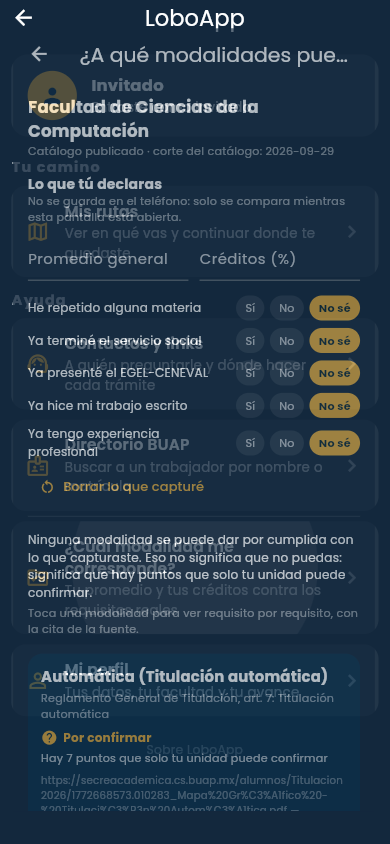
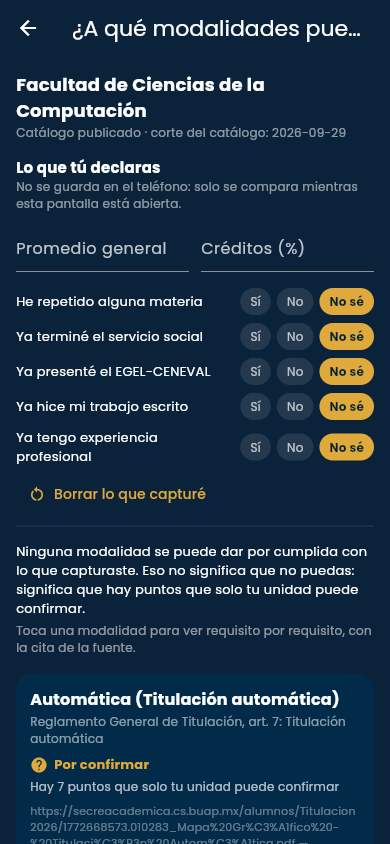
Actualiza las capturas a la app actual y alinea la portada con la 1.4.0
Capturas re-tomadas de la app corriendo (build web local, Chromium
headless a 390x844, el mismo encuadre del set anterior): bienvenida,
lista de unidades, inicio con progreso, pergamino, requisitos con
fuente, mapa con el nivel 1 completado, detalle del nivel, calculadora,
notas, respaldo y perfil.

La portada deja de describir features retiradas en 1.4.0: sin buscador
de matrícula ni padrón de trabajadores (el registro es manual y el
directorio es el de tu unidad), catálogo real de 170 modalidades de 25
unidades con corte 2026-09-29, y la demo explicada por lo que es hoy
(mismo contenido, catálogo embebido).

Changed region(s): [[0.0308, 0.0, 0.9538, 1.0], [0.0308, 0.0, 0.0923, 0.0616], [0.8923, 0.8009, 0.9231, 0.8318]]

diff --git a/README.md b/README.md
@@ -27,8 +27,8 @@ en tu dispositivo.
   &nbsp;·&nbsp;
   ⬇ <a href="https://github.com/MadManJohnSmith/LoboApp/releases/latest"><strong>Descarga la app completa</strong></a>
   <br/>
-  <sub>La demo web es una versión de muestra sin buscadores; la app completa
-  se publica en Releases.</sub>
+  <sub>La demo corre el mismo contenido en tu navegador, con el catálogo
+  embebido; la app completa se publica en Releases.</sub>
 </p>
 
 ---
@@ -55,8 +55,9 @@ en tu dispositivo.
 
 ## 🗺 ¿Cómo funciona?
 
-1. **Entras con tu matrícula** (o como invitado) — la app te busca en la base
-   de alumnos de la BUAP y toma tu nombre.
+1. **Entras como invitado o escribes tu nombre y matrícula** — la app no
+   consulta ningún padrón: solo revisa el formato de 9 dígitos y guarda lo
+   que escribas en tu teléfono.
 2. **Eliges tu unidad y tu ruta de titulación** — las 34 unidades académicas
    están precargadas, y hay 8 rutas: **promedio**, **CENEVAL**, **examen
    profesional** y las cinco modalidades del art. 7 del Reglamento General de
@@ -77,16 +78,17 @@ en tu dispositivo.
 - 🎮 **Gamificado**: rutas, niveles, mascotas y mapa — el trámite deja de ser
   un laberinto de PDFs.
 - 📋 **78 documentos y 86 pasos** en 50 niveles, explicados en lenguaje claro.
-- 📑 **Catálogo por unidad**: 137 modalidades registradas de 34 unidades, cada
-  una con su fuente oficial y su fecha, dentro de las ocho modalidades que
-  reconoce el Reglamento General de Titulación (art. 7, H. Consejo Universitario
-  23-nov-2015).
+- 📑 **Catálogo por unidad**: 170 modalidades de las 25 unidades que ya
+  publican catálogo (corte 2026-09-29), cada una con su fuente oficial y su
+  fecha, dentro de las ocho modalidades que reconoce el Reglamento General de
+  Titulación (art. 7, H. Consejo Universitario 23-nov-2015).
 - 🏛 **Las 34 unidades académicas** con su coordinación de titulación.
-- 🔍 **Buscador de matrícula offline** sobre 318,374 alumnos: la base va
-  comprimida dentro de la app y solo se descomprime la cohorte que toca.
-- 📇 **Directorio BUAP**: búsqueda de 43,025 trabajadores por nombre o
-  matrícula.
+- 📇 **Directorio de tu unidad**: a quién acudir para cada trámite, con su
+  puesto, cubículo y contacto — citando la fuente oficial que lo publica.
 - ☎ **Contactos y enlaces útiles**: DAE, CGAU, trámites en línea.
+- 🔄 **Catálogo vivo y verificado**: el contenido va embebido y firmado, y la
+  app puede bajar catálogos más nuevos de los hosts de publicación
+  registrados.
 - 🧮 **Calculadora de elegibilidad**: tu promedio y tus créditos contra los
   requisitos reales de cada modalidad de tu unidad, con «por confirmar» donde la
   unidad no publica el dato.
@@ -153,9 +155,9 @@ flutter test      # todas las pruebas, incluidas de integridad de datos y assets
 ## ❓ Preguntas frecuentes
 
 **¿Funciona sin internet?**
-Sí. Las rutas, el catálogo de modalidades y las bases de búsqueda viajan
-dentro de la app, y tu progreso se guarda en tu dispositivo. Solo la demo
-web corre en el navegador.
+Sí. Las rutas y el catálogo de modalidades viajan dentro de la app, y tu
+progreso se guarda en tu dispositivo. La red solo entra en juego si buscas
+una actualización de catálogo.
 
 **¿La app decide qué modalidad me toca?**
 No. La calculadora compara tu promedio y tus créditos contra los requisitos
@@ -172,20 +174,20 @@ app dice «no publicado» en vez de rellenar. El catálogo completo vive en
 **¿Cambio de teléfono y pierdo mi avance?**
 No: exportas tu respaldo a un archivo y lo importas en el nuevo teléfono.
 
-**¿Por qué la demo del navegador no tiene buscadores?**
-Porque las bases de alumnos y trabajadores solo viajan dentro de la app
-instalada, nunca como archivos descargables en la web.
+**¿La demo del navegador es la app completa?**
+Sí: mismo contenido y mismo flujo. La única diferencia es que la demo no
+busca actualizaciones de catálogo — usa el que va embebido. La app instalada
+se publica en Releases.
 
 ## 🔒 Privacidad
 
 - No hay servidor ni cuenta: todo el progreso vive en `shared_preferences`
   locales del dispositivo.
-- La base de alumnos incluida contiene **solo matrícula y nombre** — se
-  quitaron todos los correos de alumnos, y de los trabajadores solo se
-  conservan los correos institucionales `@correo.buap.mx`.
-- La demo web del navegador **no incluye las bases** (por eso sus buscadores
-  están desactivados): el padrón solo viaja dentro de la app instalada, nunca
-  como archivos descargables.
+- **No empaqueta bases de personas**: desde la v1.4.0 el registro es manual
+  (tu nombre y tu matrícula, escritos por ti) y el directorio de unidad es el
+  que la propia unidad publica para ser contactada.
+- La demo web corre el mismo contenido en tu navegador; nada de lo que
+  escribas ahí sale de tu navegador.
 - El proceso completo de decisión y cómo quitar las bases si la BUAP lo
   solicita está documentado en [docs/PRIVACIDAD.md](docs/PRIVACIDAD.md).
 
@@ -198,7 +200,7 @@ hardcodeado en el código:
 |---|---|
 | `routes.json` | Las 8 rutas: niveles, pasos, documentos y particularidades por unidad |
 | `facultades.json` | Las 34 unidades académicas y sus contactos |
-| `catalogo_modalidades.json` | Las 137 modalidades con su fuente oficial y su fecha |
+| `catalogo_modalidades.json` | Las modalidades de cada unidad, con su fuente oficial y su fecha |
 | `links.json` | Enlaces útiles de la BUAP |
 | `contactos.json` | Contactos generales (DAE, CGAU) |
 
@@ -216,7 +218,7 @@ lib/
   models/models.dart         Ruta, Nivel, Paso, Documento, Facultad, Alumno,
                              UnidadCatalogo, ModalidadUnidad, Elegibilidad
   state/app_state.dart       estado + persistencia local del progreso
-  services/                  repositorios: contenido JSON, alumnos, trabajadores
+  services/                  repositorio del contenido JSON (catálogo, rutas, unidades)
   screens/                   las 13 pantallas de la app
   widgets/                   componentes reutilizables
 tools/                       script para regenerar las bases desde los .db
